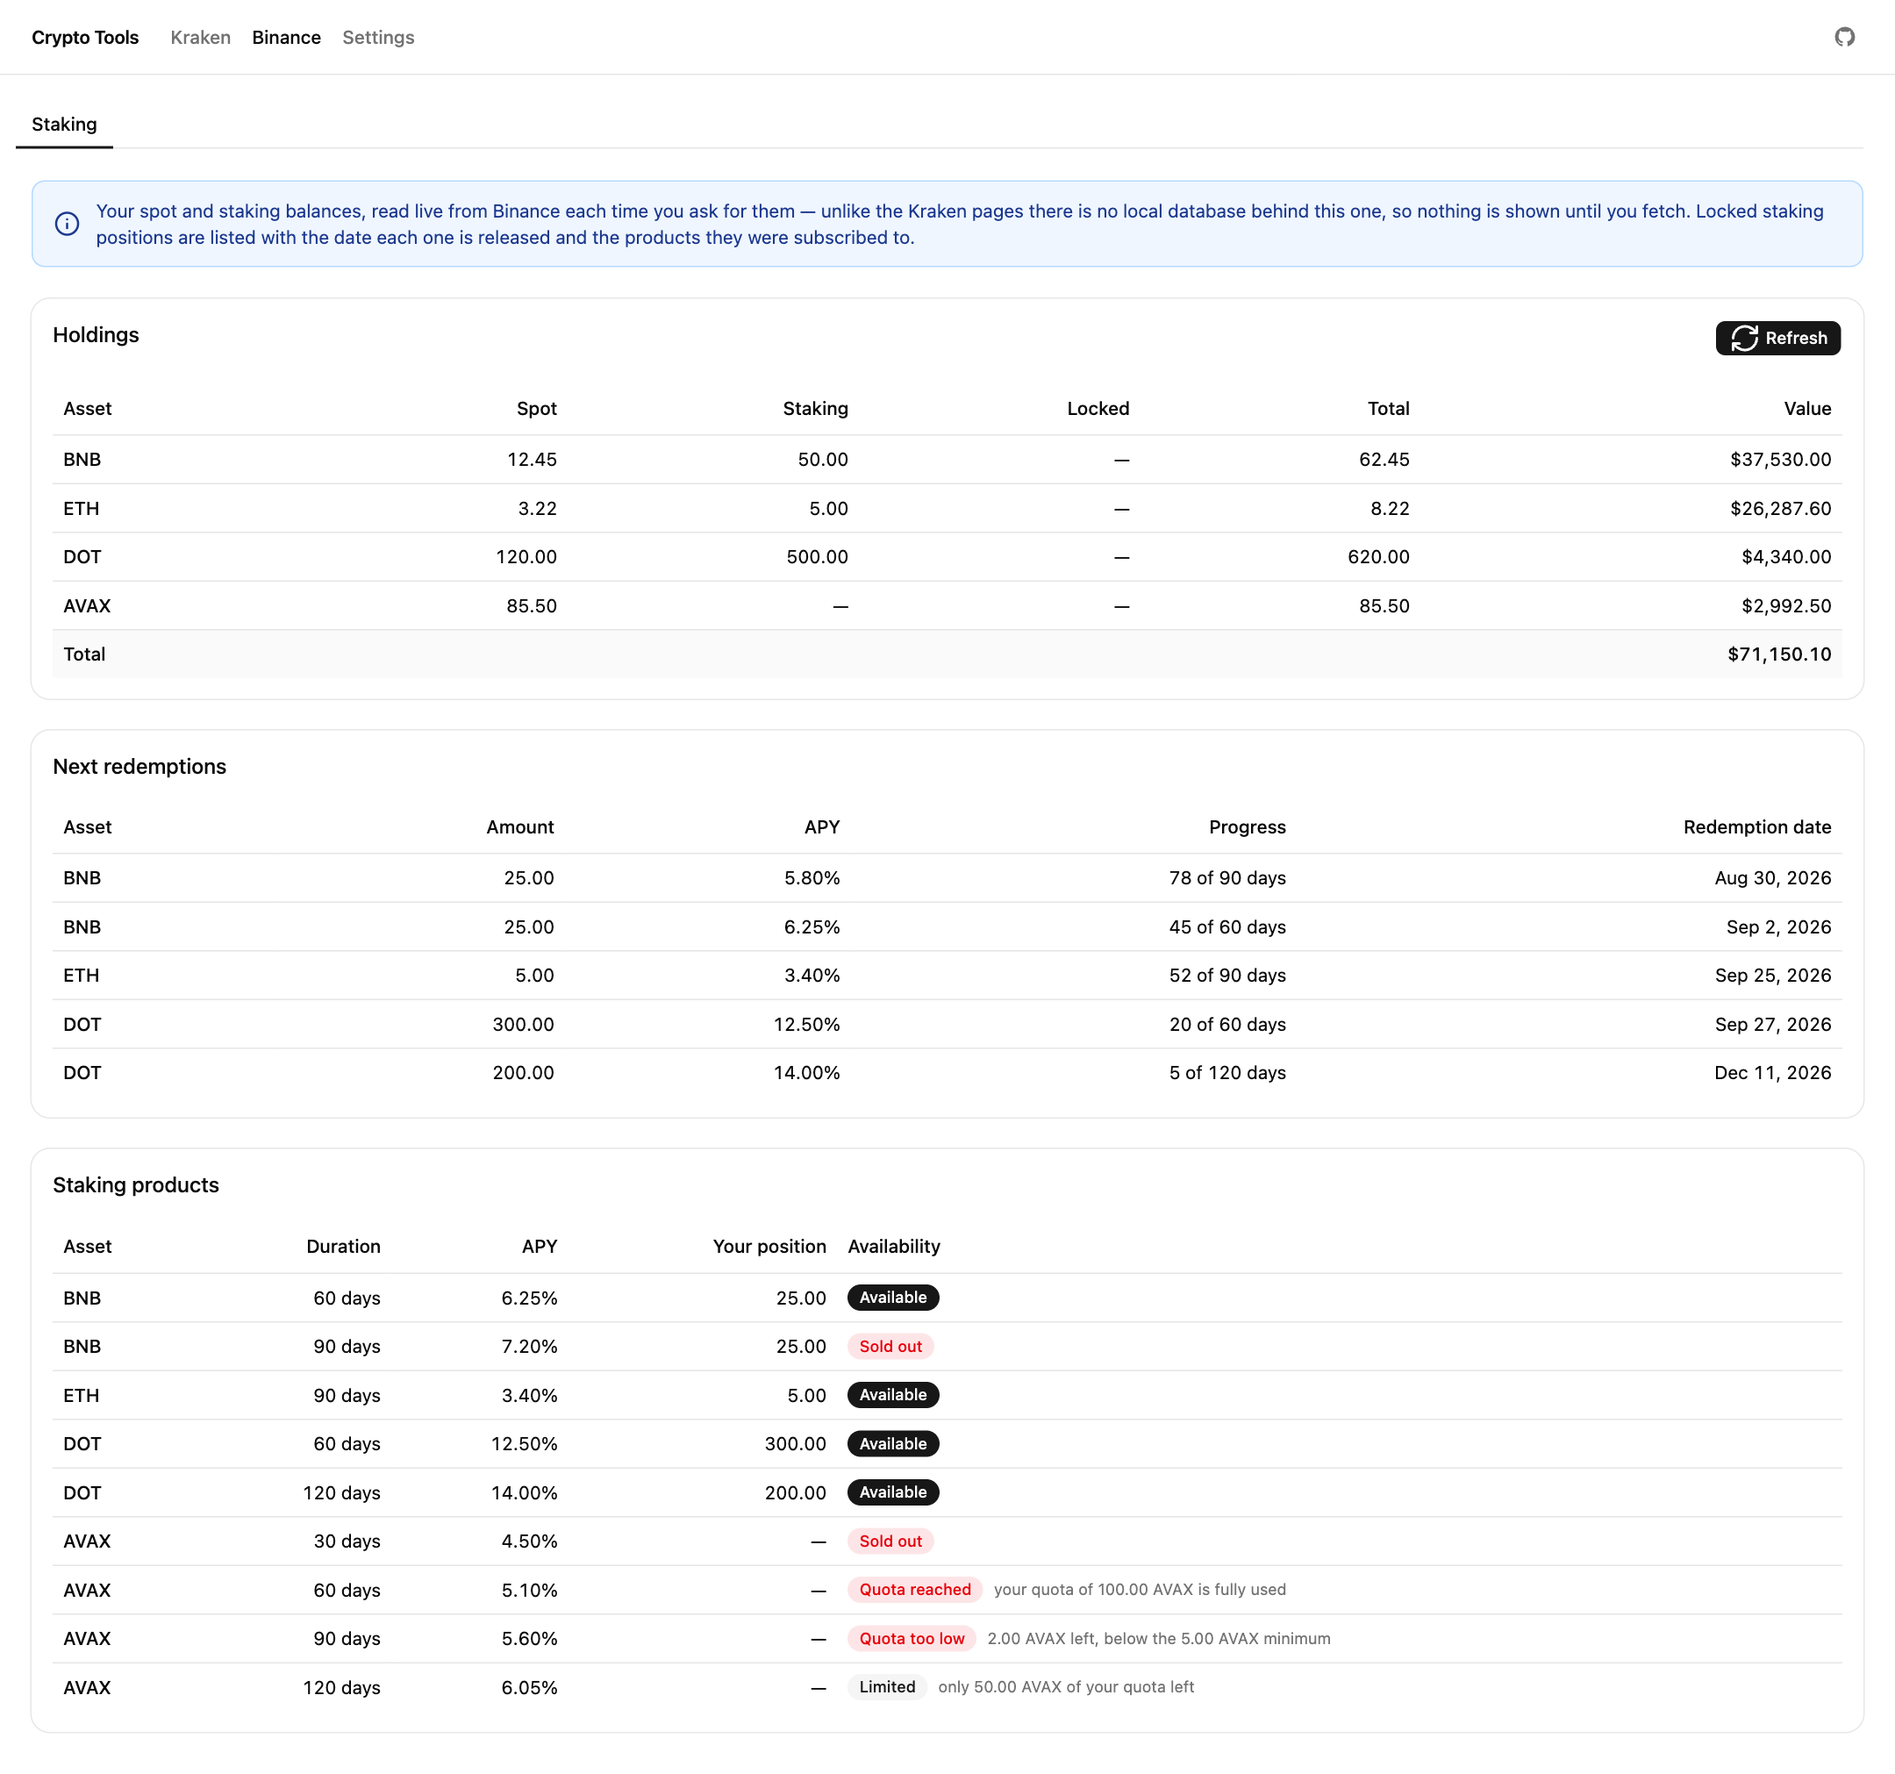
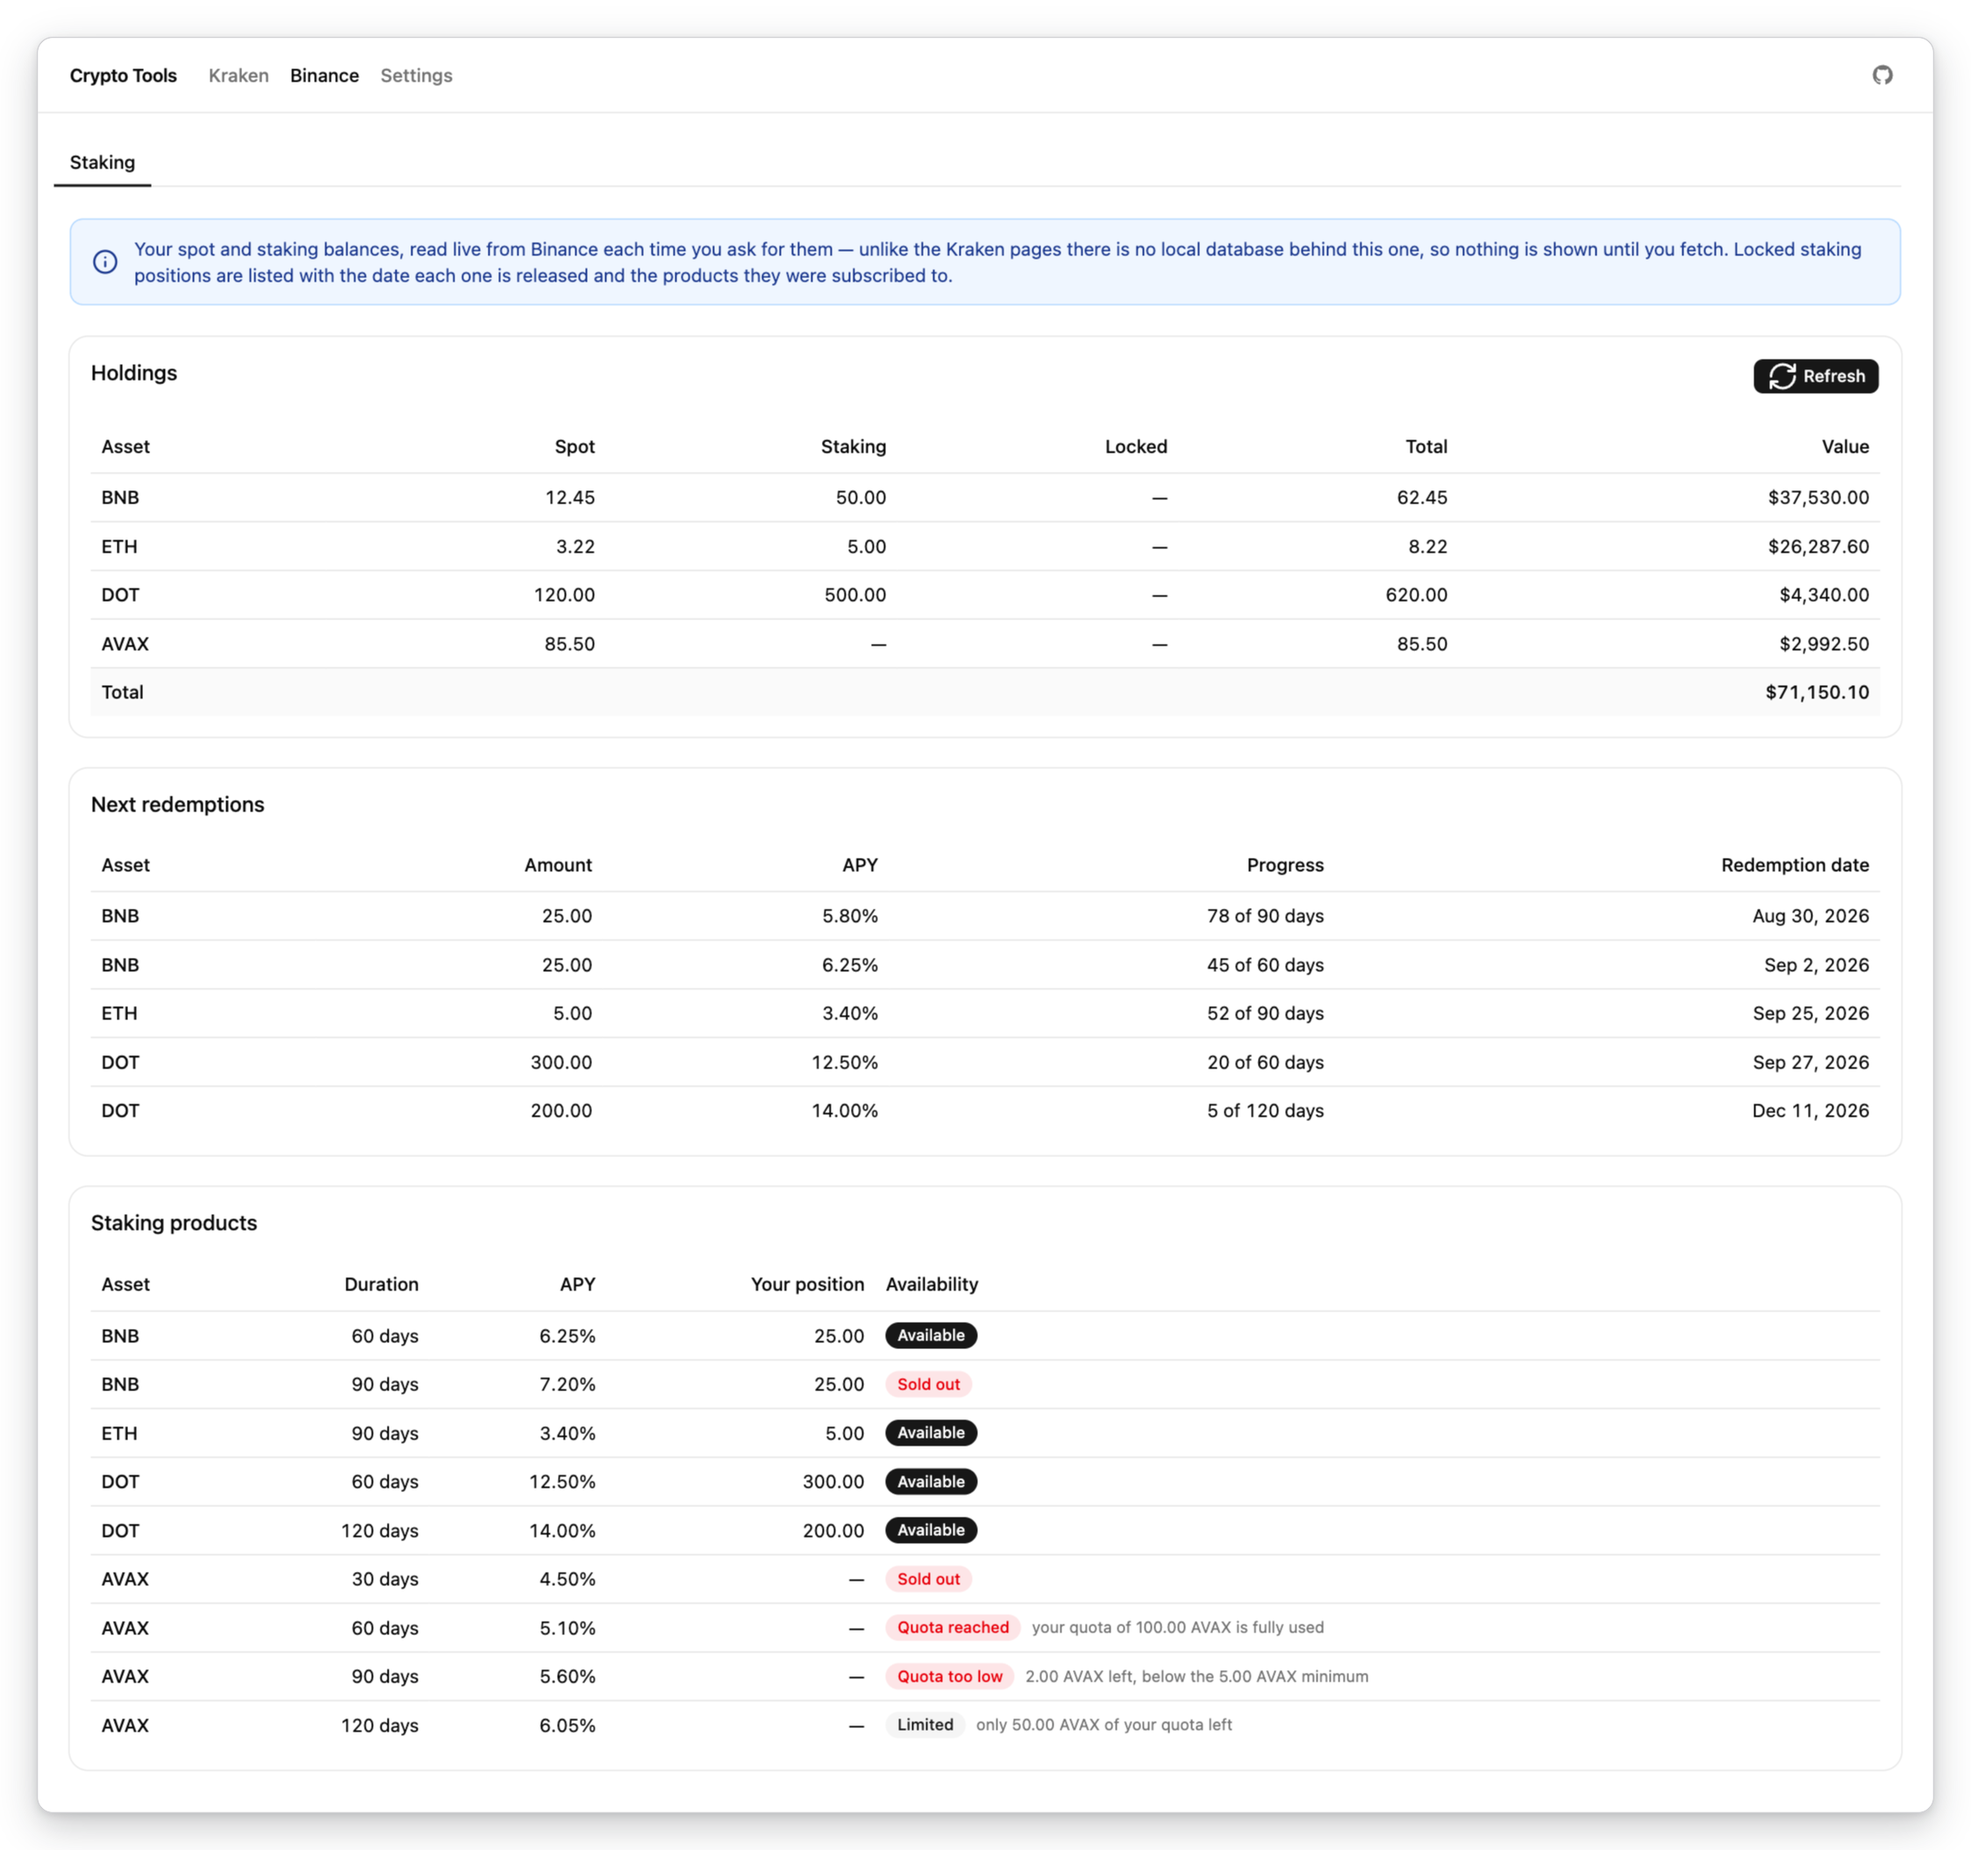
docs: frame the readme screenshots and drop the env example
Screenshots are now cropped to their content instead of to the viewport,
which is where the empty band under the home shot came from, and each one
is composited on a transparent canvas with a rounded border and a soft
shadow — GitHub strips inline styles, so the frame has to be in the pixels.
xStocks keeps the finished table and loses the mid-generation shot.

.env.development.local.example goes with them: keys belong on the Settings
page, and mocked mode gets VITE_MOCK_DATA from the `mocked` script rather
than from an env file. src/server/settings.js still reads the variables for
anyone who exports them by hand.

diff --git a/README.md b/README.md
@@ -43,8 +43,6 @@ A collection of cryptocurrency tools for [Kraken](https://www.kraken.com/) and [
 
 ![Kraken xStocks](public/screenshot-kraken-xstocks.png)
 
-![Kraken xStocks descriptions being generated](public/screenshot-kraken-xstocks-job.png)
-
 </details>
 
 <details>
@@ -101,7 +99,7 @@ bun install
 bun run dev
 ```
 
-The app is then on http://localhost:3000: `bun run dev` starts the Vite dev server (port 3000) and the Hono API server (port 3001), with `/api` proxied to the latter. API keys can be set on the **Settings** page, or copied into `.env.development.local` from `.env.development.local.example`.
+The app is then on http://localhost:3000: `bun run dev` starts the Vite dev server (port 3000) and the Hono API server (port 3001), with `/api` proxied to the latter. API keys are set on the **Settings** page, the same as in the installed app.
 
 To browse every page with generated data instead — no API keys, no server, nothing written to disk:
 
